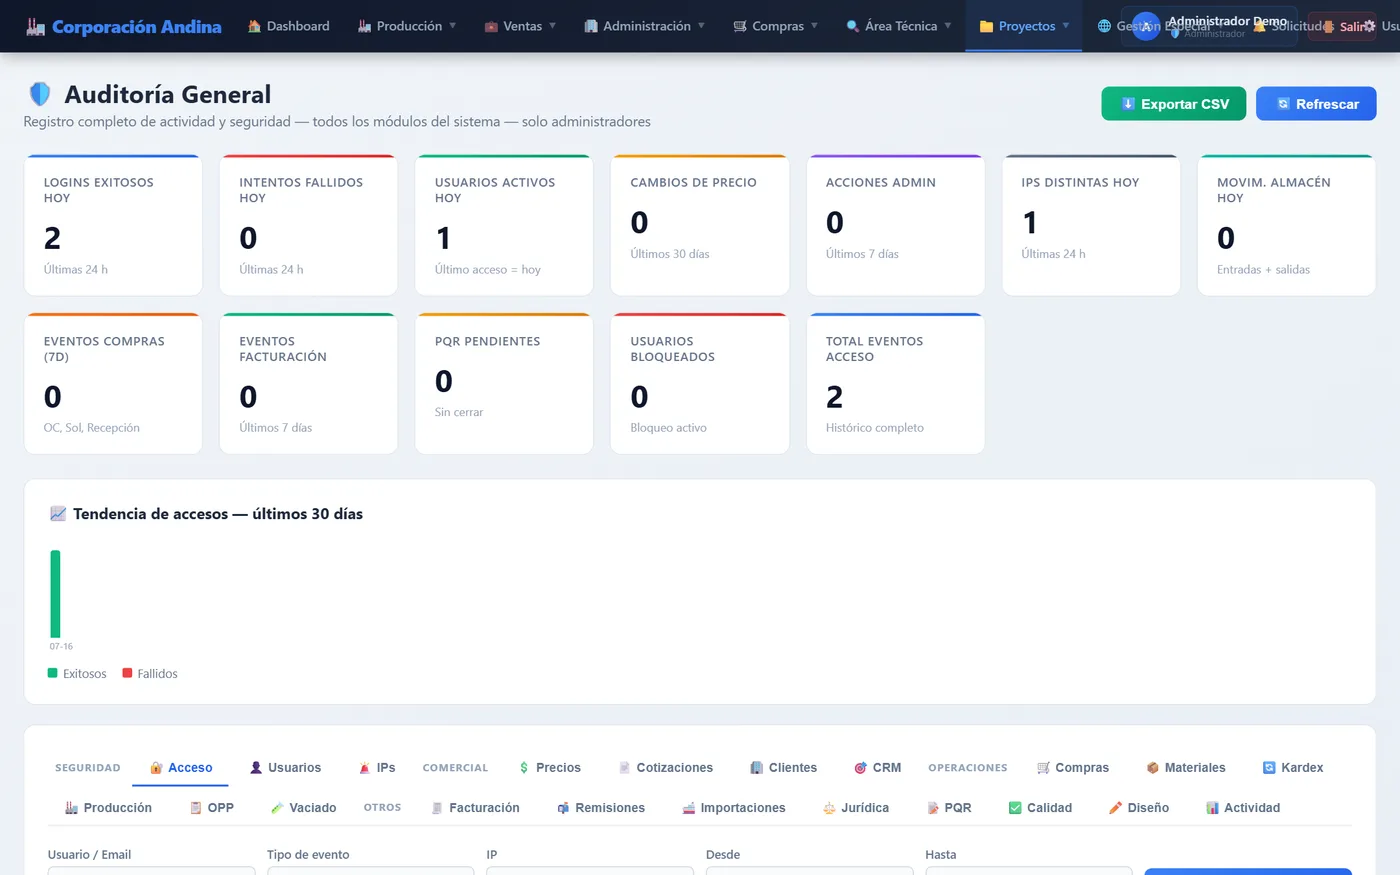
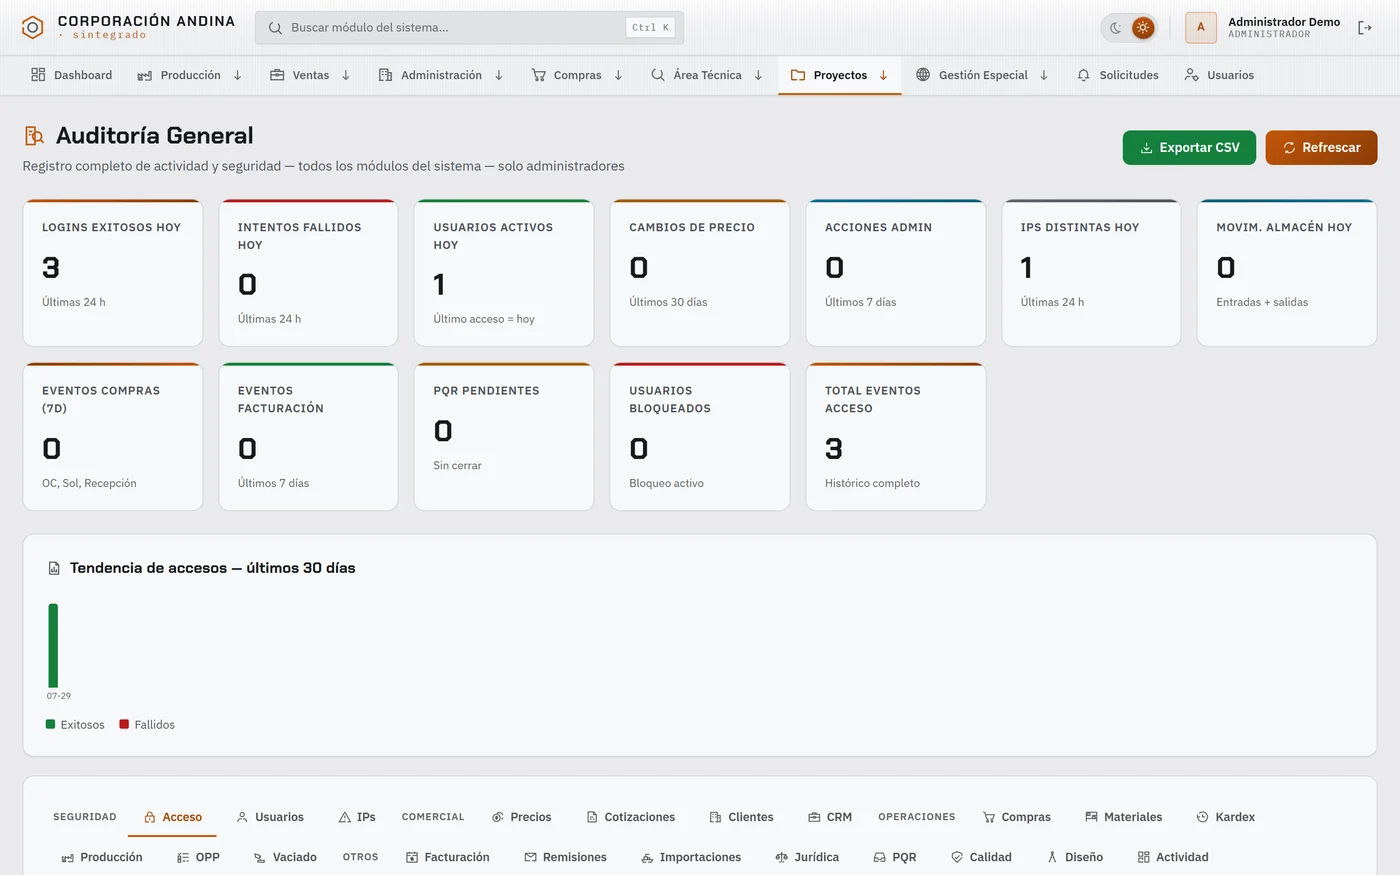
portafolio: sección ERP con la versión final (front ACERO) + problema más visual
Tras desplegar la versión final del ERP (repo sintegrado, tema ACERO), se actualiza la
sección ERP del portafolio para que coincida:

- Capturas: las 5 imágenes de referencia (dashboard, producción/Gantt, comercial,
  almacén, auditoría) se recapturan del front final ACERO — el diseño anterior ya no
  correspondía a la demo en vivo.
- "El problema" más intuitivo y visual (Samuel): en vez de un párrafo, un titular más
  directo ("Tu operación vive en Excels que no se hablan") + 4 dolores concretos y
  escaneables con marca. Nuevo campo problemPoints en erp-tour.ts + render en
  ProblemSolution + estilos .ps-points en signal (rojo), coherente con la cara problema.
- Definiciones y detalles técnicos más directos y orgánicos: se reescriben los 5 pasos
  (tablero, producción, comercial, almacén, auditoría) más concisos, reflejando lo de la
  versión final (buscador Ctrl+K, portal de operario, CRM/embudo, 2FA opcional) y la
  tagline con 2FA.

diff --git a/src/data/erp-tour.ts b/src/data/erp-tour.ts
@@ -17,7 +17,8 @@ export interface ErpTour {
   modules: string[]; // badges de módulos
   // gancho problema→solución para VENDER el ERP antes del recorrido técnico
   problemLead: string; // titular directo/general del dolor (lo que llama la atención)
-  problem: string;
+  problemPoints: string[]; // 3-4 dolores concretos y escaneables (más visual que un párrafo)
+  problem: string; // cierre de una línea que resume el dolor
   solutionLead: string; // titular directo de la solución
   solution: string;
   benefits: { k: string; v: string }[];
@@ -27,7 +28,7 @@ export interface ErpTour {
 export const erpTour: ErpTour = {
   name: 'Sistema Integrado de Gestión Empresarial',
   tagline:
-    'Un ERP a medida que corre la operación completa de una empresa industrial: 45 módulos sobre ~240 tablas. Lo construí módulo a módulo contra la operación real, y su seguridad pasó por auditoría ISO/IEC 27001.',
+    'Un ERP a medida que corre la operación completa de una empresa industrial: 45 módulos sobre ~240 tablas, de la cotización al despacho. Construido módulo a módulo contra la operación real, con 2FA y seguridad endurecida bajo auditoría ISO/IEC 27001.',
   repoUrl: '', // software privado de operación de un cliente — sin repo público
   // Demo embebida: la página /demos/erp gatea el iframe con NEXT_PUBLIC_ERP_DEMO=on (+ ERP_DEMO_ORIGIN).
   // El enlace va SIEMPRE (Samuel r20): así las partes del ERP son oprimibles hacia el demo; si el
@@ -35,12 +36,17 @@ export const erpTour: ErpTour = {
   demoUrl: '/demos/erp',
   stack: ['php', 'mysql', 'javascript'],
   modules: ['Producción', 'Comercial', 'Almacén', 'Compras', 'Calidad', 'RRHH', 'Auditoría', 'ISO 27001'],
-  problemLead: 'Cada área en su propio Excel.',
-  problem:
-    'Gerencia no ve la operación en tiempo real, el inventario nunca cuadra, las ventas se pierden en correos y una auditoría es un dolor de cabeza.',
+  problemLead: 'Tu operación vive en Excels que no se hablan.',
+  problemPoints: [
+    'Gerencia se entera de los problemas cuando ya explotaron.',
+    'El inventario del sistema nunca es el inventario real.',
+    'Cotizaciones y pedidos se pierden en correos y WhatsApp.',
+    'Una auditoría son semanas armando papeles a mano.',
+  ],
+  problem: 'Cada área trabaja en su archivo y nadie ve el conjunto: se decide a ciegas.',
   solutionLead: 'Un solo sistema corre todo.',
   solution:
-    'De la cotización a la factura y de la orden de producción al despacho — con permisos por rol y seguridad endurecida para pasar auditoría, no para aparentar.',
+    'De la cotización a la factura y de la orden de producción al despacho, con permisos por rol y trazabilidad de cada cambio — seguridad endurecida para pasar auditoría de verdad, no para aparentar.',
   benefits: [
     { k: '45 módulos', v: 'una operación completa en un lugar' },
     { k: '~240 tablas', v: 'trazabilidad e historial de cada cambio' },
@@ -52,8 +58,8 @@ export const erpTour: ErpTour = {
       id: 'dashboard',
       title: 'Tablero y KPIs',
       business:
-        'Resuelve la pregunta diaria de gerencia: "¿cómo vamos?". Órdenes activas y retrasadas, cotizaciones abiertas, solicitudes de almacén y tareas pendientes en una sola pantalla al iniciar sesión — sin perseguir a cada área ni exportar nada a Excel.',
-      tech: 'PHP 8 puro con patrón página↔API por módulo: el frontend consume ~45 endpoints api_*.php por fetch; acceso a datos por PDO con sentencias preparadas.',
+        'La respuesta a "¿cómo vamos?" apenas inicias sesión: órdenes activas y retrasadas, cotizaciones abiertas, alertas de stock y PQR, en una sola pantalla. Sin perseguir a cada área ni exportar nada a Excel — y con un buscador (Ctrl+K) para saltar a cualquier módulo.',
+      tech: 'PHP 8 con patrón página↔API por módulo: el frontend consume ~45 endpoints api_*.php por fetch, con PDO y sentencias preparadas. Cada rol ve solo los módulos que le tocan.',
       screenshot: '/proyectos/erp/dashboard.webp',
       alt: 'Tablero principal del ERP con los KPIs del negocio y la grilla de módulos por área',
     },
@@ -61,8 +67,8 @@ export const erpTour: ErpTour = {
       id: 'produccion',
       title: 'Producción y Gantt',
       business:
-        'Resuelve el caos de planta: cada pedido se vuelve una orden de producción con fechas, áreas y responsables en un Gantt vivo. El jefe de producción ve qué está retrasado ANTES de que el cliente llame, y cada avance queda trazado por área y operario.',
-      tech: 'Modelo relacional de ~240 tablas InnoDB con 331 llaves foráneas y 53 triggers; los consecutivos de orden se administran de forma transaccional.',
+        'Cada pedido se vuelve una orden de producción con fechas, áreas y responsables en un Gantt vivo. El jefe de planta ve qué se retrasa ANTES de que el cliente llame, y cada avance queda trazado por área y operario — con un portal aparte para que el operario reporte desde el piso.',
+      tech: '~240 tablas InnoDB con 331 llaves foráneas y 53 triggers; los consecutivos de orden se administran de forma transaccional para no duplicar folios bajo concurrencia.',
       screenshot: '/proyectos/erp/produccion.webp',
       alt: 'Módulo de producción con diagrama de Gantt y las órdenes de producción activas',
     },
@@ -70,8 +76,8 @@ export const erpTour: ErpTour = {
       id: 'comercial',
       title: 'Comercial y cotizaciones',
       business:
-        'Resuelve las ventas que se pierden por desorden: cada cotización tiene estado, versión y responsable, ligada a su cliente y a sus tareas. El comercial sabe qué está por vencer y qué aprobado pasa a producción — nada vive en el correo de alguien.',
-      tech: 'Cada módulo es una página que consume su propia API (api_comercial, api_cotizaciones, api_crm) por fetch; estados y consecutivos se controlan en el servidor.',
+        'Cada cotización tiene estado, versión y responsable, ligada a su cliente y sus tareas. El comercial sabe qué está por vencer y qué, ya aprobado, pasa directo a producción — nada vive en el correo de una sola persona.',
+      tech: 'Módulos página↔API (api_comercial, api_cotizaciones, api_crm) por fetch, con estados y consecutivos controlados en el servidor; CRM y embudo de negocios integrados al flujo.',
       screenshot: '/proyectos/erp/comercial.webp',
       alt: 'Módulo comercial con el listado de cotizaciones, clientes y los KPIs de ventas',
     },
@@ -79,8 +85,8 @@ export const erpTour: ErpTour = {
       id: 'almacen',
       title: 'Almacén e inventario',
       business:
-        'Resuelve el "creí que había": entradas, salidas, conversiones y solicitudes de material dejan rastro, así el stock del sistema es el stock real. Producción pide materiales desde su módulo y almacén despacha con soporte — se acaban los faltantes sorpresa y las compras dobles.',
-      tech: 'Subida de archivos validada por MIME + extensión + nombre aleatorio con PHP deshabilitado en uploads; ~25 tablas *_historial para auditar cada cambio de stock.',
+        'Se acaba el "creí que había": entradas, salidas, conversiones y solicitudes dejan rastro, así el stock del sistema ES el stock real. Producción pide material desde su módulo y almacén despacha con soporte — sin faltantes sorpresa ni compras dobles.',
+      tech: 'Subida de archivos validada por tipo real (bytes) + nombre aleatorio con PHP deshabilitado en la carpeta de subidas; ~25 tablas *_historial para auditar cada movimiento de stock.',
       screenshot: '/proyectos/erp/almacen.webp',
       alt: 'Módulo de almacén con control de inventario, entradas, salidas y solicitudes',
     },
@@ -88,8 +94,8 @@ export const erpTour: ErpTour = {
       id: 'auditoria',
       title: 'Auditoría y seguridad',
       business:
-        'Resuelve el "¿quién hizo esto?": cada acceso, cambio de precio y acción administrativa queda registrada con usuario, IP y fecha, exportable para auditorías. La empresa pasa controles (ISO/IEC 27001) con evidencia, no con promesas — y los permisos por rol evitan el problema de raíz.',
-      tech: 'Login por sesión con bcrypt, 2FA TOTP con secreto cifrado AES-256-GCM, CSRF centralizado, CORS con lista blanca y cabeceras de seguridad (CSP/HSTS); endurecido bajo ISO/IEC 27001:2022.',
+        'La respuesta a "¿quién hizo esto?": cada acceso, cambio de precio y acción admin queda con usuario, IP y fecha, exportable a CSV. La empresa pasa controles ISO/IEC 27001 con evidencia, no con promesas — y los permisos por rol evitan el problema de raíz.',
+      tech: 'Login por sesión con bcrypt, 2FA TOTP opcional con secreto cifrado AES-256-GCM, CSRF centralizado, CORS con lista blanca y cabeceras CSP/HSTS; endurecido bajo ISO/IEC 27001:2022.',
       screenshot: '/proyectos/erp/auditoria.webp',
       alt: 'Panel de auditoría general del ERP: registro de accesos, eventos de seguridad y tendencia',
     },

diff --git a/src/components/exhibits/ProblemSolution.tsx b/src/components/exhibits/ProblemSolution.tsx
@@ -11,6 +11,7 @@ import { t } from '@/i18n';
 // (clic/tap) lo maneja este componente para que también funcione en móvil sin depender del hover.
 interface ProblemSolutionProps {
   problemLead: string;
+  problemPoints?: string[]; // dolores concretos y escaneables (más visual que un párrafo)
   problem: string;
   solutionLead: string;
   solution: string;
@@ -20,6 +21,7 @@ interface ProblemSolutionProps {
 
 export default function ProblemSolution({
   problemLead,
+  problemPoints,
   problem,
   solutionLead,
   solution,
@@ -42,7 +44,20 @@ export default function ProblemSolution({
             <span aria-hidden="true">⚠</span> {t.exhibit.erpProblem}
           </span>
           <p className="ps-lead">{problemLead}</p>
-          <p className="ps-text">{problem}</p>
+          {problemPoints && problemPoints.length > 0 ? (
+            <ul className="ps-points">
+              {problemPoints.map((point) => (
+                <li key={point} className="ps-point">
+                  <span className="ps-point__mark" aria-hidden="true">
+                    ✕
+                  </span>
+                  <span>{point}</span>
+                </li>
+              ))}
+            </ul>
+          ) : (
+            <p className="ps-text">{problem}</p>
+          )}
           <span className="ps-hint" aria-hidden="true">
             {t.exhibit.psHint}
           </span>

diff --git a/src/app/globals.css b/src/app/globals.css
@@ -1232,6 +1232,37 @@ footer:hover .footer-wordmark {
   line-height: 1.55;
   color: var(--color-dim);
 }
+/* dolores concretos y escaneables: más visual que un párrafo (Samuel: "más intuitivo") */
+.ps-points {
+  margin-top: 0.6rem;
+  display: flex;
+  flex-direction: column;
+  gap: 0.42rem;
+  list-style: none;
+  padding: 0;
+}
+.ps-point {
+  display: flex;
+  align-items: flex-start;
+  gap: 0.5rem;
+  font-size: 0.88rem;
+  line-height: 1.38;
+  color: var(--color-ink);
+}
+.ps-point__mark {
+  flex-shrink: 0;
+  margin-top: 0.1rem;
+  display: inline-flex;
+  align-items: center;
+  justify-content: center;
+  width: 1.05rem;
+  height: 1.05rem;
+  border-radius: 999px;
+  background: color-mix(in oklab, var(--color-signal) 15%, transparent);
+  color: var(--color-signal);
+  font-size: 0.6rem;
+  font-weight: 700;
+}
 /* pista de interacción en la cara problema (afordancia: hay algo que revelar) */
 .ps-hint {
   margin-top: 0.9rem;

diff --git a/src/components/exhibits/ErpScrollytelling.tsx b/src/components/exhibits/ErpScrollytelling.tsx
@@ -19,6 +19,7 @@ export default function ErpScrollytelling() {
       {erpTour.demoUrl && (
         <ProblemSolution
           problemLead={erpTour.problemLead}
+          problemPoints={erpTour.problemPoints}
           problem={erpTour.problem}
           solutionLead={erpTour.solutionLead}
           solution={erpTour.solution}
